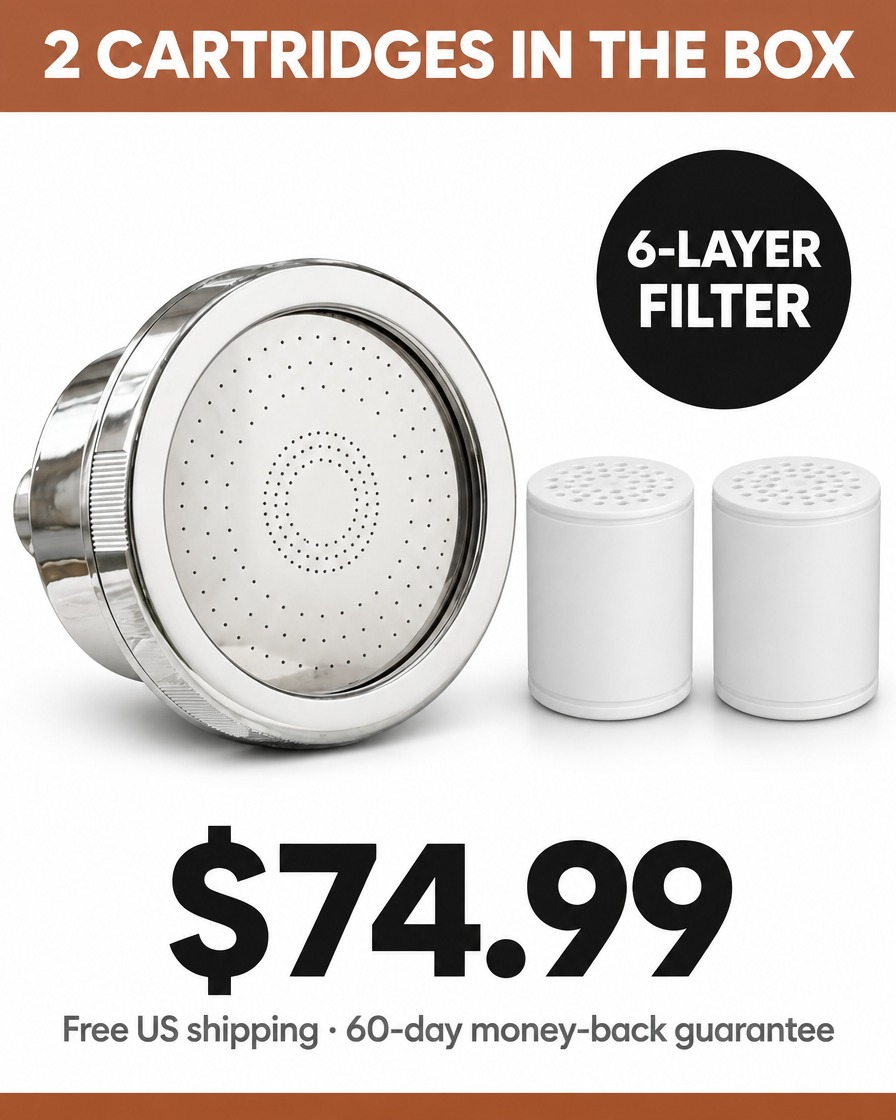
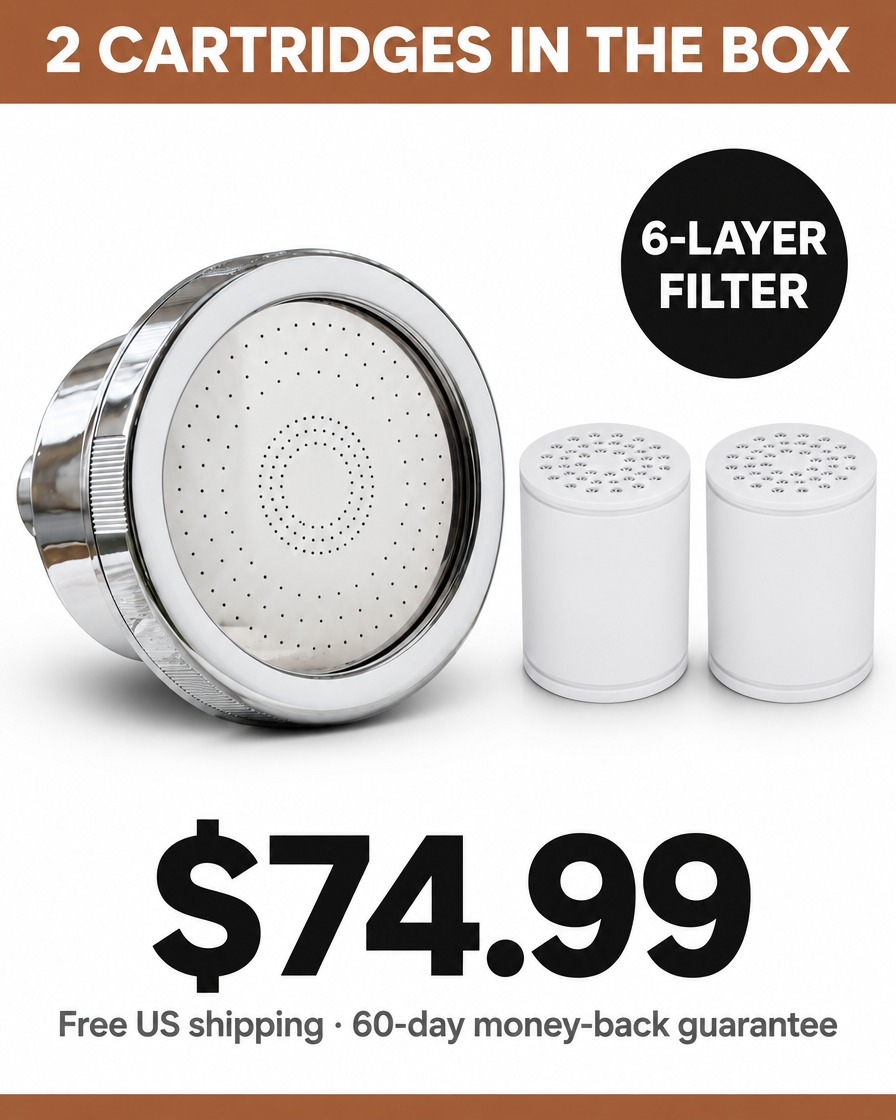
S02 refaite avec la vraie photo de cartouche
Claude-Session: https://claude.ai/code/session_01T6h1ryrsAgUQHXRjRXwYsy

diff --git a/plush-intel/visuels/test1/README.md b/plush-intel/visuels/test1/README.md
@@ -18,4 +18,4 @@ Texte principal et titre de chaque pub : `../../06_angles/production-creas.md` (
 | A18-note-honnete.jpg | `C11_ANG-honnete_PER-P5_AW-PR_FMT-note_HK-35_V1_T1` | native |
 
 Pas encore faites : S08 (nature morte de preuve, il faut une vraie cartouche marquée), les vidéos.
-Références sur Higgsfield : pommeau `5dd928ad-b2bf-4307-8fc5-9442101b7032`, cartouche `4189a1c1-a1db-4267-864f-8e2835d793de`.
+Références sur Higgsfield : pommeau `5dd928ad-b2bf-4307-8fc5-9442101b7032`, cartouche **réelle** `3c7a8fa8-d2f0-4000-96ea-6bf041fe9994` (photo de Yasser du 11 nov., `assets/produit/plush-cartouche-reelle.jpg`). Ne plus utiliser `4189a1c1…` (vue en coupe de la fiche).
